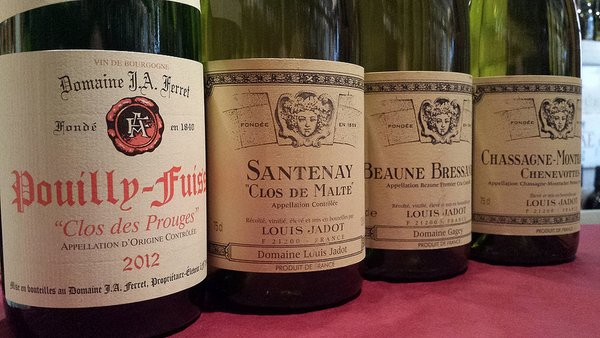
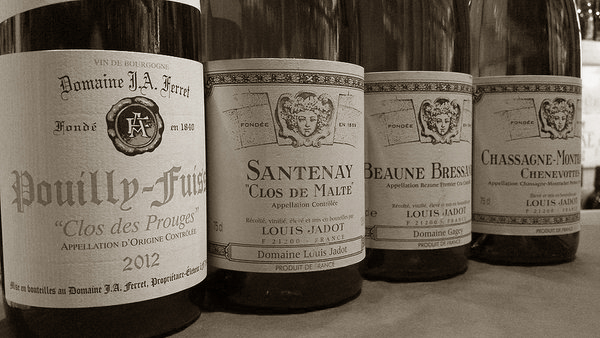
Fixed some navbar issues, added background picture

diff --git a/Vincellar-Website/css/blog.css b/Vincellar-Website/css/blog.css
@@ -92,18 +92,20 @@ h6, .h6 {
 .blog-header {
   padding-top: 40px;
   padding-bottom: 20px;
-  background-image: url('../Images/Vineyard-2.jpg');
-  background-attachment: fixed;
+  background-color: #f3efec;
+  border-style: solid;
 }
 .blog-title {
   margin-top: 30px;
   margin-bottom: 0;
   font-size: 60px;
   font-weight: normal;
+  font-family: 'Courier New', Courier, 'Lucida Sans Typewriter', 'Lucida Typewriter', monospace;
 }
 .blog-description {
   font-size: 20px;
-  color: #ffffff;
+  color: #A29191;
+  font-family: 'Courier New', Courier, 'Lucida Sans Typewriter', 'Lucida Typewriter', monospace;
 }
 
 
@@ -122,23 +124,16 @@ h6, .h6 {
 
 /*------------ Blog posts ---------------*/
 
-@media (min-width: 992px) {
-  .container {
-    width: 100vw;
-  }
-
-  .blog-post-content {
-    padding: 25px 0 28vh 0;
-    background-color: #fbfaf8;
-    text-align: center;
-  }
+.container {
+  width: 100vw;
 }
 
-@media (min-width: 768px) {
-  .container,
-  .col-sm-8 {
-    width: 100vw;
-  }
+.blog-post-content {
+  padding: 20px 0 3vh 0;
+  background-color: #E6E5E3;
+  text-align: -webkit-center;
+  border-style: dotted;
+  overflow: auto;
 }
 
 p {
@@ -147,18 +142,9 @@ p {
 }
 
 b.title {
-  color: #847C82;
-}
-
-p.subheading {
-  padding: 2vh;
-}
-
-blockquote {
-  font-size: 17.5px;
-  margin: 0px;
-  border-left: 5px solid #eee;
-  background-color: #F7F5F2
+  color: #FFFFFF;
+  font-size: 43px;
+  letter-spacing: 8px;
 }
 
 .row {
@@ -171,6 +157,7 @@ blockquote {
   width: 50%;
   padding-left: 8vw;
   padding-right: 8vw;
+  font-family: 'Courier New', Courier, 'Lucida Sans Typewriter', 'Lucida Typewriter', monospace;
 }
 
 .col-sm-8 {
@@ -196,14 +183,19 @@ section.post-container {
   margin-bottom: 0px;
   padding: 10vh;
   background-color: transparent;
-  font-family: "BrandonGrotesque-Bold", sans-serif;
+  font-family: 'Courier New', Courier, 'Lucida Sans Typewriter', 'Lucida Typewriter', monospace;
   text-transform: uppercase;
-  background-image: url(../Images/Wine_cellar.jpg);
+  background-image: url(../Images/WineBottles.jpg);
   background-attachment: fixed;
+  background-size: 100% auto;
+  background-repeat: no-repeat;
 }
 
 .blog-post-subheading {
   background-color: #f7f5f2;
+  padding: 5vw;
+  font-family: 'Courier New', Courier, 'Lucida Sans Typewriter', 'Lucida Typewriter', monospace;
+  font-size: 20px;
 }
 
 
@@ -213,7 +205,9 @@ section.post-container {
   padding: 40px 0;
   color: #999;
   text-align: center;
-  background-color: #f9f9f9;
+  background-image: url(../Images/WineBottles.jpg);
+  background-attachment: fixed;
+  background-size: 100% auto;
   border-top: 1px solid #e5e5e5;
 }
 .blog-footer p:last-child {

diff --git a/Vincellar-Website/js/jQuery-custom.js b/Vincellar-Website/js/jQuery-custom.js
@@ -5,7 +5,7 @@ $(function() {
       target = target.length ? target : $('[name=' + this.hash.slice(1) +']');
       if (target.length) {
         $('html, body').animate({
-          scrollTop: target.offset().top -150
+          scrollTop: target.offset().top - 250
         }, 1000);
         return false;
       }
